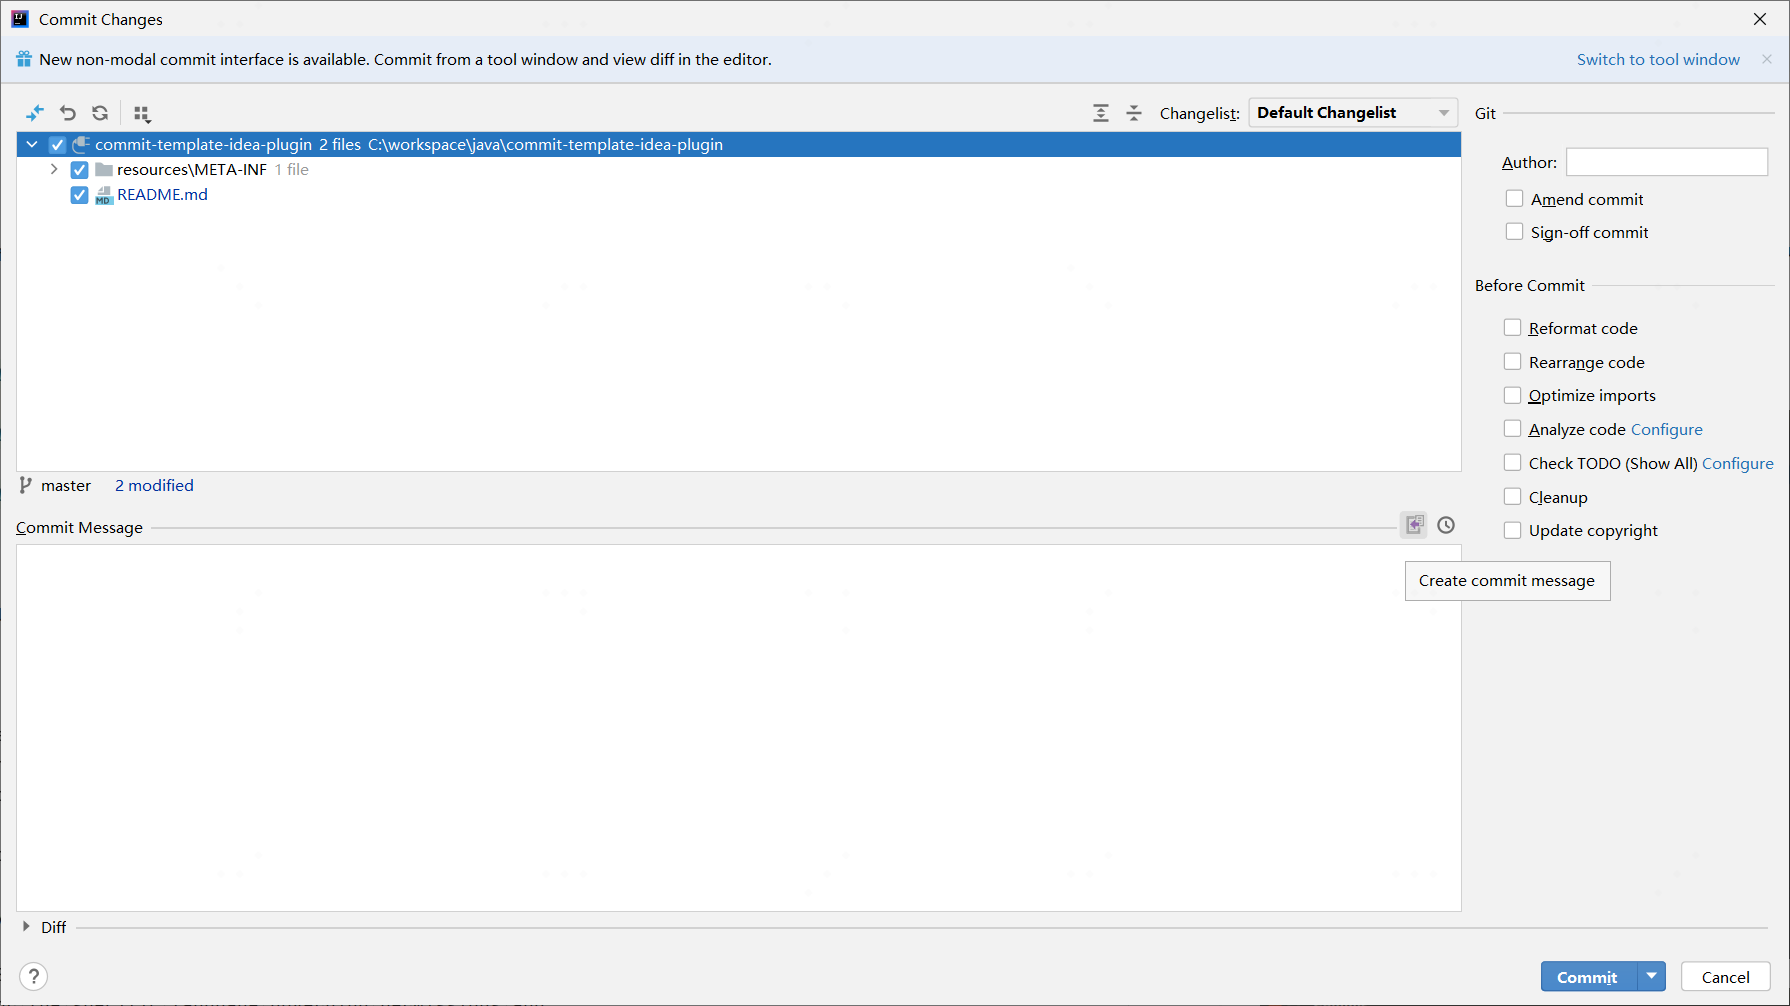
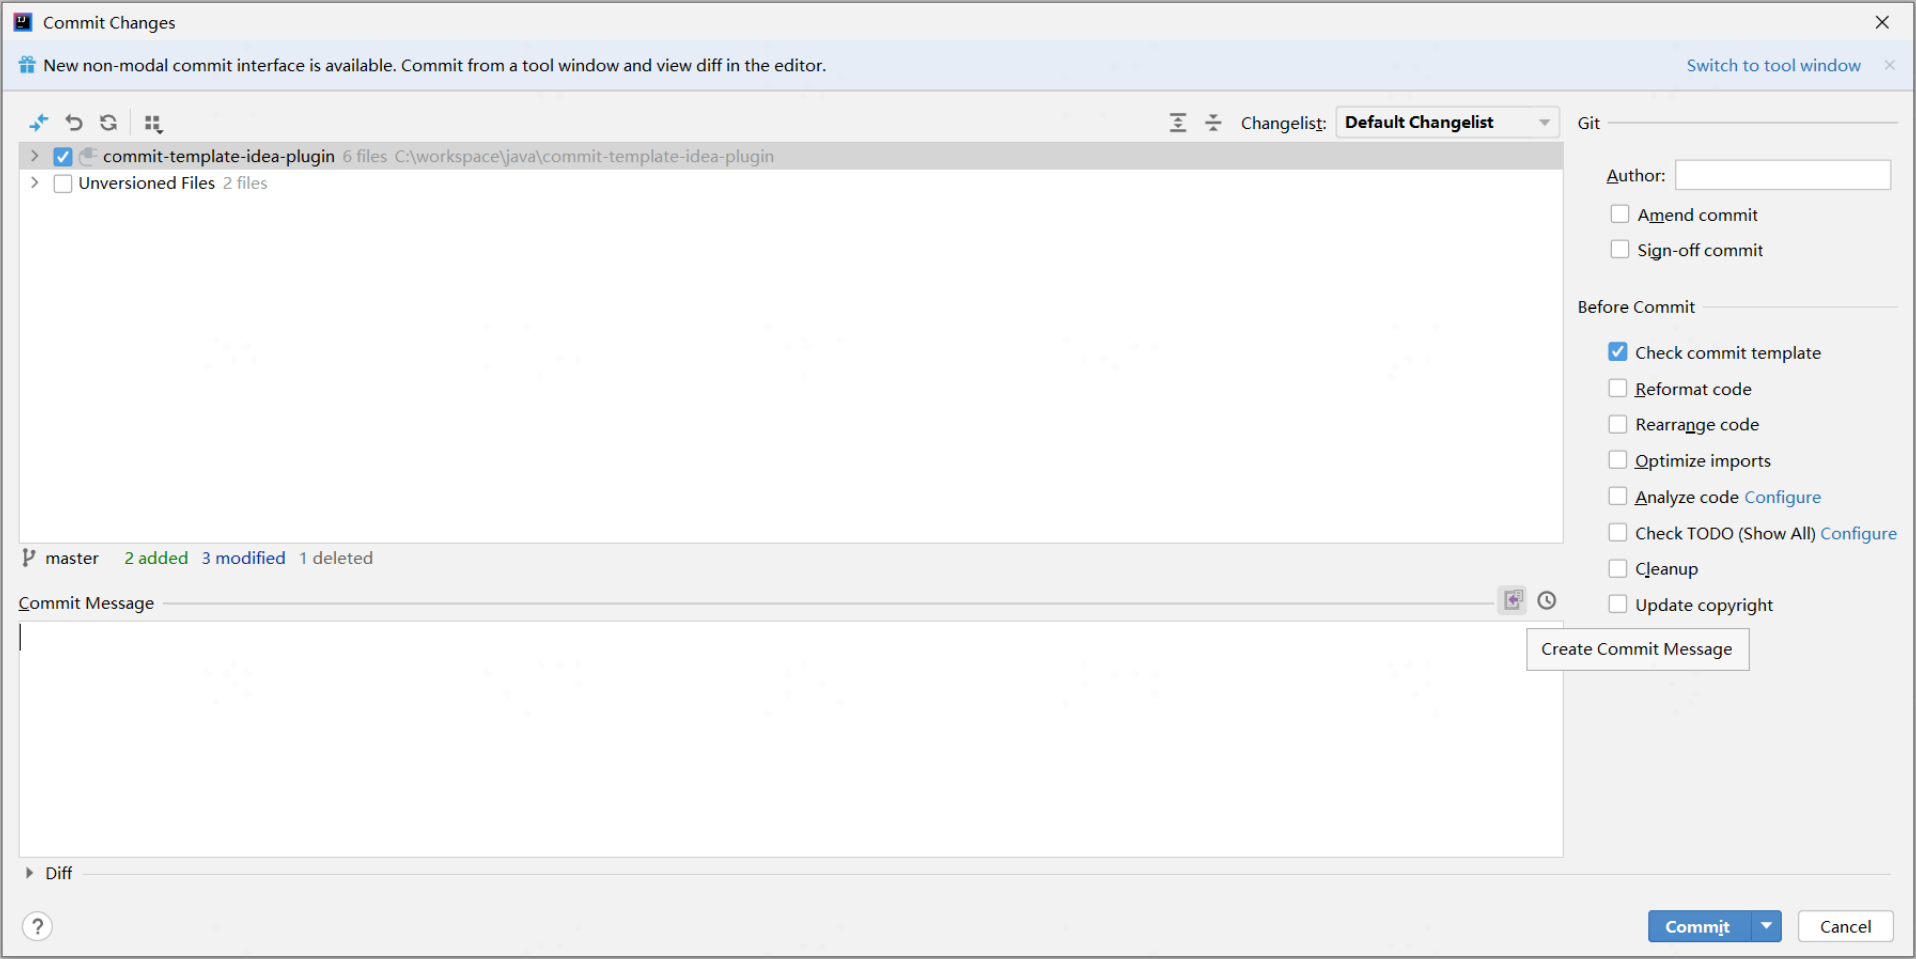
docs: 1.3.0版本说明

diff --git a/README.md b/README.md
@@ -10,6 +10,19 @@ This plugin allows to create a commit message with the following template:
 <footer>
 ```
 
+For example:
+
+```
+fix[compile]: couple of unit tests for IE 9
+
+[Older IEs serialize html uppercased, but IE9 does not...
+Would be better to expect case insensitive, unfortunately jasmine does
+not allow to user regexps for throw exectations]
+
+[fixed: #392]
+[fixed: #393]
+```
+
 <p>The plug-in is based on <a href="https://plugins.jetbrains.com/plugin/9861-git-commit-template">Git Commit Template</a></p>
 
 ## Installation
